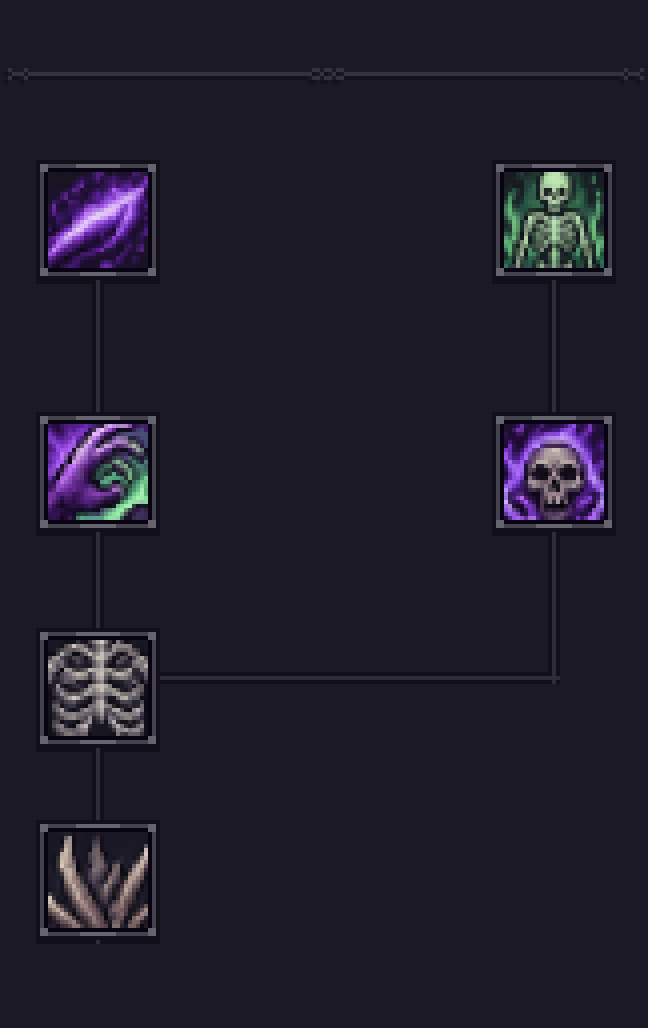
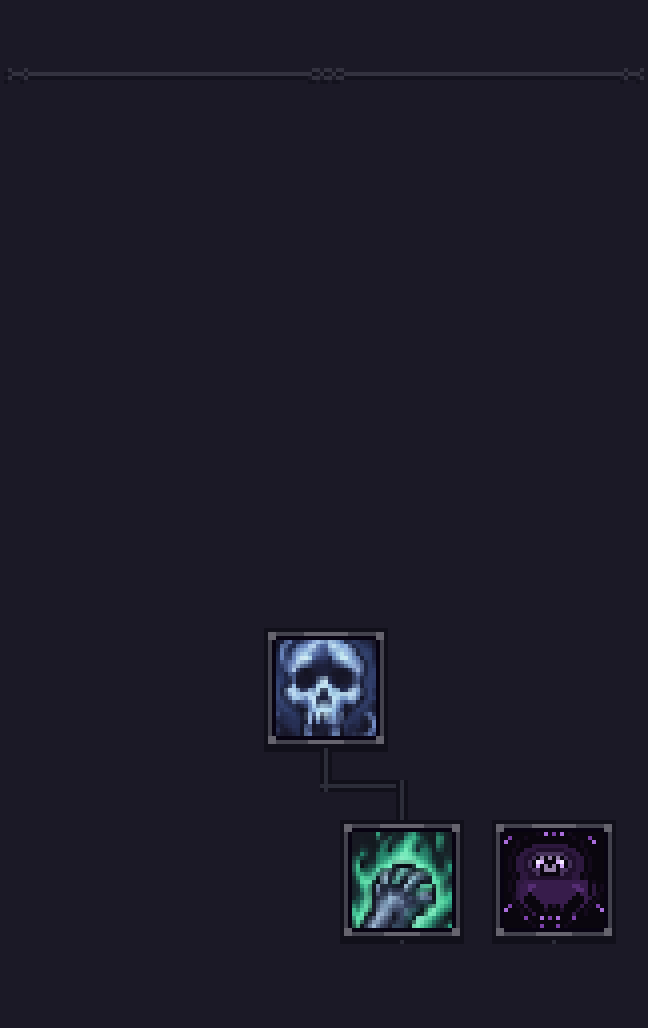
Update Necromancy skill tree layout and render modes

diff --git a/necromancy/python/generate_skill_tree.py b/necromancy/python/generate_skill_tree.py
@@ -3,21 +3,25 @@
 
 Modes
 -----
-full tree
+locked tree (default)
+    Blank panel from ``python/skill_tree/`` (background + top line). Every
+    skill is a lock frame; all ``tree.edges`` are drawn as orthogonal links.
+    No skill icons.
+
+--icons
     Composite skill icons onto ``s_nmancy_reworked`` (sockets + link art already
     in the branch sprite). Icon centers match in-game layout.
 
 --skills A,B,...
-    Blank panel from ``python/skill_tree/`` (background + top line + lock
-    frames). Only the listed skills are drawn. Direct ``tree.edges`` between
-    selected skills are drawn as orthogonal links.
+    Blank panel + lock frames for the listed skills only. Direct ``tree.edges``
+    between them are drawn. Omit ``--filled`` to show icons in those sockets;
+    ``--filled ''`` / ``--locked`` keeps locks only.
 
 --empty-back
     Blank panel only (fill + top ornament; no skills or links).
 
 Skill tokens (``--skills`` / ``--filled``) accept id, slug, or display name;
-repeat the flag or use commas. Omit ``--filled`` to fill every shown skill;
-``--filled ''`` shows locks only.
+repeat the flag or use commas. ``--filled ''`` shows locks only.
 """
 
 from __future__ import annotations
@@ -47,7 +51,10 @@ LINK_STOP = 16
 
 TIER_Y = {1: 55, 2: 118, 3: 172, 4: 220}
 SLUG_X: dict[str, int] = {
-    # Tier 1 — 24 / 81 / 138 (outer columns align with T2 essence_leech / resurrection)
+    # Left: Dark Bolt → Essence Leech → Death Touch → Corpse Burst
+    # Center: Bone Ward → Blessing/Blight → Black Sepulchre → Immortality/Blooming
+    # Right: Summon Skeleton → Resurrection → Mastery → Wraith
+    # Tier 1 — 24 / 81 / 138
     "desecration": 24,
     "bone_ward": 81,
     "summon_skeleton": 138,
@@ -58,10 +65,10 @@ SLUG_X: dict[str, int] = {
     "resurrection": 138,
     # Tier 3 — 24 / 81 / 138
     "death_touch": 24,
-    "corpse_burst": 81,
-    "black_sepulchre": 138,
+    "black_sepulchre": 81,
+    "mastery_of_binding": 138,
     # Tier 4 — 24 / 62 / 100 / 138
-    "mastery_of_binding": 24,
+    "corpse_burst": 24,
     "immortality": 62,
     "blooming_madness": 100,
     "wraith_summoning": 138,
@@ -394,12 +401,16 @@ def paint_slot(
     lock_frame: Image.Image | None,
     empty_style: str,
     place_lock: bool,
+    allow_icons: bool = True,
 ) -> None:
     if place_lock and lock_frame is not None:
         canvas.alpha_composite(
             lock_frame,
             (slot.cx - LOCK_ORIGIN[0], slot.cy - LOCK_ORIGIN[1]),
         )
+
+    if not allow_icons:
+        return
 
     if not slot.filled and empty_style == "lock":
         # Keep padlock art (from branch or placed lock frame).
@@ -413,6 +424,21 @@ def paint_slot(
         icon,
         (slot.cx - ICON_ORIGIN[0], slot.cy - ICON_ORIGIN[1]),
     )
+
+
+def draw_edges_for_slots(
+    canvas: Image.Image,
+    data: dict,
+    slots: list[Slot],
+) -> None:
+    """Draw orthogonal links for every tree.edge whose ends are both shown."""
+    by_id = {slot.skill.id: slot for slot in slots}
+    selected = set(by_id)
+    for edge in parse_edges(data):
+        if edge.src not in selected or edge.dst not in selected:
+            continue
+        a, b = by_id[edge.src], by_id[edge.dst]
+        draw_orthogonal_link(canvas, a.cx, a.cy, b.cx, b.cy)
 
 
 def apply_chrome(
@@ -476,10 +502,17 @@ def render_branch(
     show_labels: bool,
     title: str | None,
     only: set[str] | None = None,
+    *,
+    locked: bool = False,
+    use_icons: bool = False,
 ) -> Path:
     skills = parse_skills(data)
     if not skills:
         raise SystemExit("no skills found in JSON")
+
+    # Locked tree never fills icons, even if --filled listed skills.
+    if locked:
+        unlocked = set()
 
     slots = build_slots(data, skills, unlocked, only=only)
     if only is not None and not slots:
@@ -494,7 +527,11 @@ def render_branch(
             file=sys.stderr,
         )
 
-    if only is not None:
+    # Component panel: selected skills, explicit --locked, or default (no --icons).
+    use_components = only is not None or locked or not use_icons
+    allow_icons = use_icons or (only is not None and not locked)
+
+    if use_components:
         canvas = make_empty_back(branch)
         lock_frame = load_lock_frame()
         if lock_frame is None:
@@ -503,14 +540,7 @@ def render_branch(
                 "sockets will have no frame",
                 file=sys.stderr,
             )
-        # Direct edges only — both ends must be in the selected set.
-        selected = {slot.skill.id for slot in slots}
-        by_id = {slot.skill.id: slot for slot in slots}
-        for edge in parse_edges(data):
-            if edge.src not in selected or edge.dst not in selected:
-                continue
-            a, b = by_id[edge.src], by_id[edge.dst]
-            draw_orthogonal_link(canvas, a.cx, a.cy, b.cx, b.cy)
+        draw_edges_for_slots(canvas, data, slots)
         for slot in slots:
             paint_slot(
                 canvas,
@@ -519,6 +549,7 @@ def render_branch(
                 lock_frame=lock_frame,
                 empty_style=empty_style,
                 place_lock=True,
+                allow_icons=allow_icons,
             )
     else:
         canvas = branch.copy()
@@ -530,6 +561,7 @@ def render_branch(
                 lock_frame=None,
                 empty_style=empty_style,
                 place_lock=False,
+                allow_icons=True,
             )
 
     canvas = apply_chrome(
@@ -549,15 +581,18 @@ def render_branch(
 
 HELP_EPILOG = """
 examples:
-  # Full tree, every skill filled
+  # Full locked tree (default): panel + edges + lock frames, no skill icons
   python3 python/generate_skill_tree.py
 
-  # Full tree, only some skills filled (rest stay as locks)
-  python3 python/generate_skill_tree.py \\
-    --filled desecration,bone_ward,summon_skeleton
+  # Same, explicit
+  python3 python/generate_skill_tree.py --locked
 
-  # Full tree, all locks (no icons)
-  python3 python/generate_skill_tree.py --filled ''
+  # Full tree with skill icons on branch sprite
+  python3 python/generate_skill_tree.py --icons
+
+  # Icons tree, only some skills filled (rest stay as locks)
+  python3 python/generate_skill_tree.py --icons \\
+    --filled desecration,bone_ward,summon_skeleton
 
   # Selected skills on blank panel; draw direct tree.edges between them
   python3 python/generate_skill_tree.py \\
@@ -566,7 +601,7 @@ examples:
 
   # Selected skills as locks only
   python3 python/generate_skill_tree.py \\
-    --skills black_sepulchre,blooming_madness,wraith_summoning --filled ''
+    --skills black_sepulchre,blooming_madness,wraith_summoning --locked
 
   # Blank panel asset (no skills)
   python3 python/generate_skill_tree.py --empty-back
@@ -574,7 +609,7 @@ examples:
   # Labels + title + upscale
   python3 python/generate_skill_tree.py --title auto --labels --scale 4
 
-components (used by --skills / --empty-back):
+components (used by locked tree / --skills / --empty-back):
   python/skill_tree/background.png
   python/skill_tree/top_line.png
   python/skill_tree/locked_skill.png
@@ -626,6 +661,22 @@ def build_argparser() -> argparse.ArgumentParser:
         ),
     )
     p.add_argument(
+        "--locked",
+        action="store_true",
+        help=(
+            "Locked tree: blank panel + lock frames + tree.edges, no skill icons. "
+            "Default when neither --icons nor --skills is set."
+        ),
+    )
+    p.add_argument(
+        "--icons",
+        action="store_true",
+        help=(
+            "Composite skill icons onto the branch sprite (full tree). "
+            "With --skills, fill selected sockets with icons instead of locks."
+        ),
+    )
+    p.add_argument(
         "--skills",
         action="append",
         default=None,
@@ -642,7 +693,7 @@ def build_argparser() -> argparse.ArgumentParser:
         metavar="SKILL",
         help=(
             "Which shown skills are filled (id/slug/name; comma or repeat). "
-            "Omit = fill all shown; --filled '' = locks only."
+            "Omit = fill all shown when icons are enabled; --filled '' = locks only."
         ),
     )
     p.add_argument(
@@ -674,9 +725,11 @@ def main(argv: list[str] | None = None) -> int:
     args = build_argparser().parse_args(argv)
     branch_path = find_branch_sprite(args.sprites, args.branch)
     out_path: Path = args.out
+    root = Path(__file__).resolve().parents[1]
+    default_out = root / "_debug" / "necromancy-skill-tree.png"
 
     if args.empty_back:
-        if out_path == Path(__file__).resolve().parents[1] / "_debug" / "necromancy-skill-tree.png":
+        if out_path == default_out:
             out_path = out_path.with_name("necromancy-skill-tree-back.png")
         branch = Image.open(branch_path).convert("RGBA")
         canvas = scale_nearest(make_empty_back(branch), args.scale)
@@ -695,11 +748,22 @@ def main(argv: list[str] | None = None) -> int:
             raise SystemExit("no valid skills in --skills")
         only = set(selected)
 
+    # Default (no --icons / --skills): locked full tree from components.
+    locked = bool(args.locked) or (only is None and not args.icons)
+
     filled_args = args.filled
-    if filled_args is not None and len(filled_args) == 1 and filled_args[0].strip() == "":
+    if locked or (
+        filled_args is not None and len(filled_args) == 1 and filled_args[0].strip() == ""
+    ):
         unlocked: set[str] | None = set()
     else:
         unlocked = parse_unlocked(filled_args, skills)
+
+    # Icon compositing: --icons for full tree, or --skills without --locked.
+    use_icons = (bool(args.icons) or only is not None) and not locked
+
+    if out_path == default_out and locked and only is None:
+        out_path = out_path.with_name("necromancy-skill-tree-locked.png")
 
     title = None if args.title == "" else args.title
     out = render_branch(
@@ -713,6 +777,8 @@ def main(argv: list[str] | None = None) -> int:
         show_labels=args.labels,
         title=title,
         only=only,
+        locked=locked,
+        use_icons=use_icons,
     )
     print(f"wrote {out}")
     return 0

diff --git a/necromancy/src/NecromancySchool.cs b/necromancy/src/NecromancySchool.cs
@@ -79,8 +79,11 @@ public static class NecromancySchool
             "is_execute = false\n" +
             "owner = gml_Script_scr_GetMobParametr\n");
 
-        // Node centers: T1 24/81/138 (outer cols align with T2 essence_leech / resurrection),
-        // T2–T4 24/62/100/138 (T3 uses 24/81/138).
+        // Branches:
+        //   Left   Dark Bolt → Essence Leech → Death Touch → Corpse Burst
+        //   Center Bone Ward → Blessing/Blight → Black Sepulchre → Immortality/Blooming
+        //   Right  Summon Skeleton → Resurrection → Mastery → Wraith
+        // Centers: T1/T3 24/81/138; T2/T4 24/62/100/138.
         var layout = new System.Text.StringBuilder("event_inherited()\n");
         var t1Xs = new[] { 24, 81, 138 };
         for (var i = 0; i < tier1.Length; i++)
@@ -93,7 +96,6 @@ public static class NecromancySchool
                 .Append(", 55, 1)\n");
         }
 
-        // T2: Essence Leech | Death's Blessing | Grave Blight | Resurrection.
         var t2X = new Dictionary<string, int>(StringComparer.OrdinalIgnoreCase)
         {
             ["essence_leech"] = 24,
@@ -114,12 +116,11 @@ public static class NecromancySchool
                 .Append(", 118, 1)\n");
         }
 
-        // T3 sockets are left / center / right (24/81/138), not the T2 4-column xs.
         var t3X = new Dictionary<string, int>(StringComparer.OrdinalIgnoreCase)
         {
             ["death_touch"] = 24,
-            ["corpse_burst"] = 81,
-            ["black_sepulchre"] = 138,
+            ["black_sepulchre"] = 81,
+            ["mastery_of_binding"] = 138,
         };
         for (var i = 0; i < tier3.Length; i++)
         {
@@ -133,11 +134,9 @@ public static class NecromancySchool
                 .Append(", 172, 1)\n");
         }
 
-        // T4 sockets 24/62/100/138: Mastery (from Resurrection, no Death Touch link),
-        // Immortality under Corpse Burst, Blooming + Wraith under Black Sepulchre.
         var t4X = new Dictionary<string, int>(StringComparer.OrdinalIgnoreCase)
         {
-            ["mastery_of_binding"] = 24,
+            ["corpse_burst"] = 24,
             ["immortality"] = 62,
             ["blooming_madness"] = 100,
             ["wraith_summoning"] = 138,

diff --git a/necromancy/src/NecromancyTier4Skills.cs b/necromancy/src/NecromancyTier4Skills.cs
@@ -92,9 +92,15 @@ public static class NecromancyTier4Skills
             $"gml_Object_{skill.IconObjectName}_Create_0.gml",
             $"gml_Object_{skill.IconObjectName}_Step_2.gml");
 
-        NecromancyTier1Skills.ApplyEventAndReplace(skillObj, modFiles,
+        var skillEvents = new List<string>
+        {
             $"gml_Object_{skill.SkillObjectName}_Create_0.gml",
-            $"gml_Object_{skill.SkillObjectName}_Other_17.gml");
+            $"gml_Object_{skill.SkillObjectName}_Other_17.gml",
+        };
+        if (skill.Slug == "corpse_burst")
+            skillEvents.Add($"gml_Object_{skill.SkillObjectName}_Other_19.gml");
+
+        NecromancyTier1Skills.ApplyEventAndReplace(skillObj, modFiles, skillEvents.ToArray());
 
         NecromancyTier1Skills.ApplyEventAndReplace(birth, modFiles,
             $"gml_Object_{skill.BirthObjectName}_Create_0.gml",
